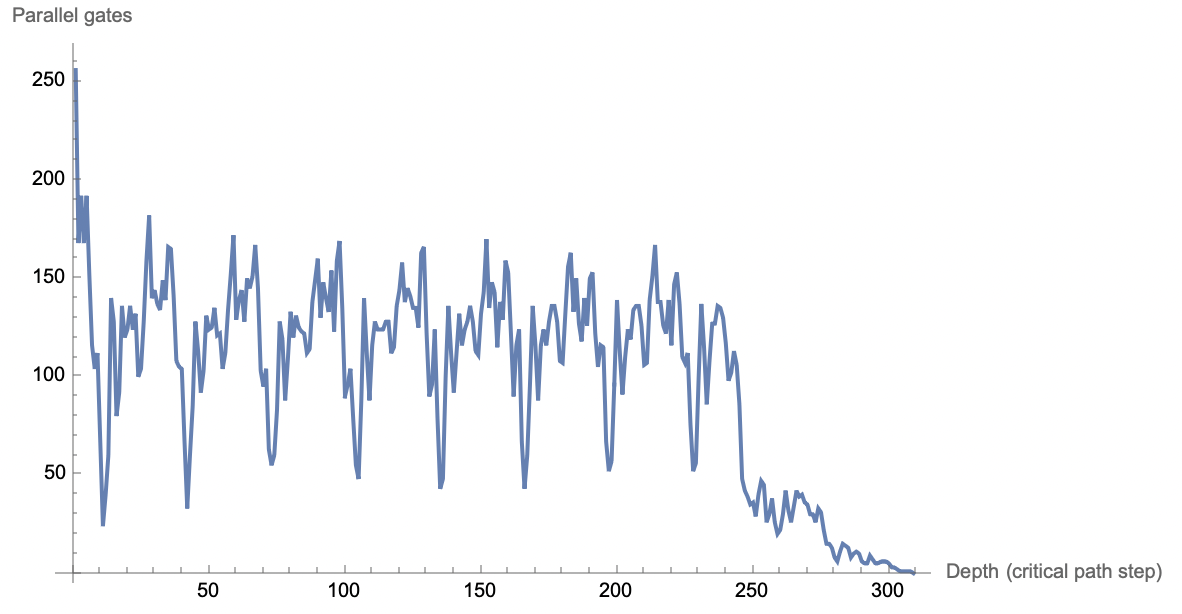
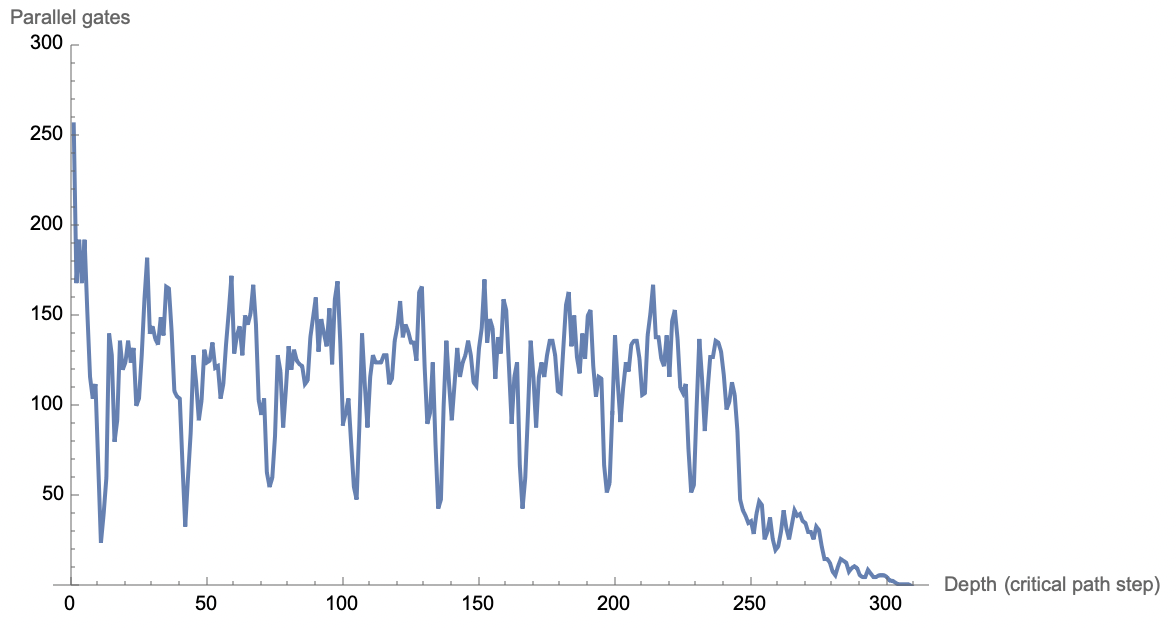
Update

Changed region(s): [[0.0, 0.0, 1.0, 0.9902]]

diff --git a/README.md b/README.md
@@ -76,11 +76,11 @@ Table 2. Run on Apple M1.
 
 ![No prepressing](img/no_levelize.png)
 
-Figure 1.
+Figure 1. AES, no levelize.
 
 ![Preprocessing](img/levelize.png)
 
-Figure 2.
+Figure 2. AES, levelized.
 
 ## References
 [1][Analysis of parallel algorithms — Wikipedia](https://en.wikipedia.org/wiki/Analysis_of_parallel_algorithms)
